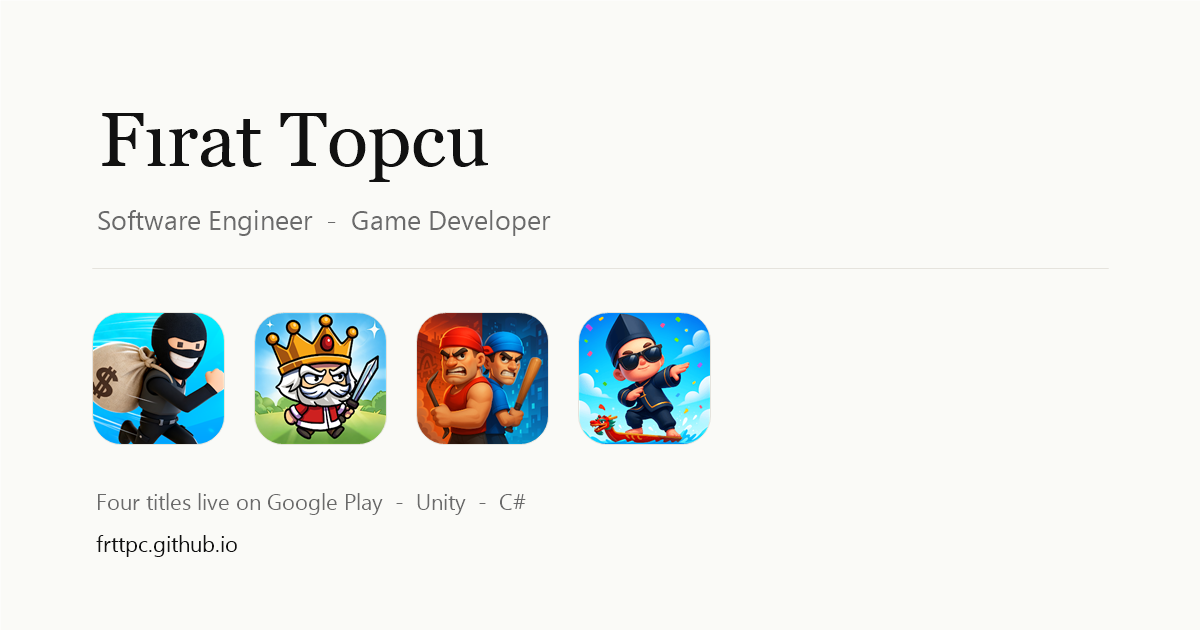
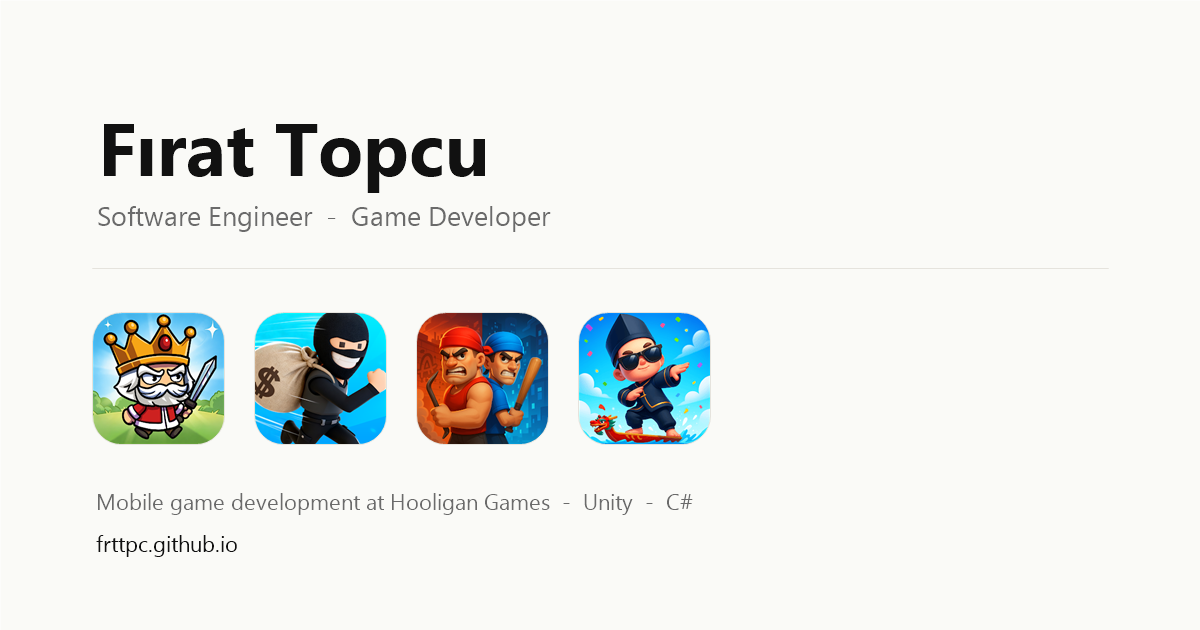
Reframe studio work and rework header type
- Lead with Double Strategy, the title currently in release with a
  publisher, and mark it In Release.
- Rename the section Studio Work. The other Hooligan titles were soft
  launched on Google Play for publisher testing rather than shipped, so
  relabel them Soft Launch instead of Released.
- Move Fort Royal in alongside the other studio work and leave the
  personal tab to solo builds only.
- Set the page header in bold Inter rather than the serif display face;
  the serif stays on section and project headings.
- Regenerate the share banner, app icons and meta description, all of
  which still claimed four live Google Play titles.

diff --git a/index.html b/index.html
@@ -4,7 +4,7 @@
     <meta charset="UTF-8">
     <meta name="viewport" content="width=device-width, initial-scale=1.0">
     <title>Fırat Topcu — Game Developer | Unity &amp; C#</title>
-    <meta name="description" content="Unity game developer with four titles live on Google Play. Gameplay systems, UI/UX and mobile performance in Unity and C#.">
+    <meta name="description" content="Unity game developer at Hooligan Games. Gameplay systems, UI/UX and mobile performance in Unity and C#.">
     <meta name="author" content="Fırat Topcu">
     <link rel="canonical" href="https://frttpc.github.io/">
 
@@ -15,15 +15,15 @@
     <meta property="og:site_name" content="Fırat Topcu">
     <meta property="og:url" content="https://frttpc.github.io/">
     <meta property="og:title" content="Fırat Topcu — Game Developer">
-    <meta property="og:description" content="Unity game developer with four titles live on Google Play. Gameplay systems, UI/UX and mobile performance in Unity and C#.">
+    <meta property="og:description" content="Unity game developer at Hooligan Games. Gameplay systems, UI/UX and mobile performance in Unity and C#.">
     <meta property="og:image" content="https://frttpc.github.io/images/og-image.png">
     <meta property="og:image:width" content="1200">
     <meta property="og:image:height" content="630">
-    <meta property="og:image:alt" content="Fırat Topcu, Software Engineer and Game Developer, with four shipped mobile game icons.">
+    <meta property="og:image:alt" content="Fırat Topcu, Software Engineer and Game Developer, with mobile game project icons.">
 
     <meta name="twitter:card" content="summary_large_image">
     <meta name="twitter:title" content="Fırat Topcu — Game Developer">
-    <meta name="twitter:description" content="Unity game developer with four titles live on Google Play. Gameplay systems, UI/UX and mobile performance in Unity and C#.">
+    <meta name="twitter:description" content="Unity game developer at Hooligan Games. Gameplay systems, UI/UX and mobile performance in Unity and C#.">
     <meta name="twitter:image" content="https://frttpc.github.io/images/og-image.png">
 
     <link rel="preconnect" href="https://fonts.googleapis.com">
@@ -104,11 +104,11 @@
         }
 
         h1 {
-            font-family: var(--serif);
-            font-weight: 400;
-            font-size: clamp(3rem, 8vw, 5rem);
-            line-height: 1.02;
-            letter-spacing: -0.02em;
+            font-family: var(--sans);
+            font-weight: 700;
+            font-size: clamp(2.7rem, 7vw, 4.2rem);
+            line-height: 1.05;
+            letter-spacing: -0.035em;
             margin-bottom: 14px;
         }
 
@@ -119,9 +119,9 @@
         }
 
         .role em {
-            font-family: var(--serif);
-            font-style: italic;
-            font-size: 1.2rem;
+            font-family: var(--sans);
+            font-style: normal;
+            font-weight: 600;
             color: var(--ink);
         }
 
@@ -342,6 +342,11 @@
         .status.released {
             background: #E6F2EA;
             color: #1F6B42;
+        }
+
+        .status.softlaunch {
+            background: #E8EEF6;
+            color: #33557F;
         }
 
         .status.prototype {
@@ -652,11 +657,11 @@
                 <img src="images/profile.jpg" alt="Fırat Topcu" class="avatar">
                 <div>
                     <h1>Fırat Topcu</h1>
-                    <p class="role">Software Engineer &mdash; <em>game developer</em></p>
+                    <p class="role">Software Engineer &mdash; <em>Game Developer</em></p>
                     <p class="intro">
                         I build mobile games in Unity and C#: gameplay systems, the UI that wraps
-                        them, and the live-ops plumbing underneath. Four titles currently on
-                        Google Play with Hooligan Games.
+                        them, and the live-ops plumbing underneath. Currently working towards
+                        release on <em>Double Strategy</em> at Hooligan Games.
                     </p>
                     <div class="header-links">
                         <a class="link-btn" href="https://github.com/frttpc" target="_blank" rel="noopener">GitHub</a>
@@ -672,8 +677,8 @@
 
     <nav class="nav">
         <div class="nav-inner">
-            <button class="nav-btn active" onclick="show(this,'shipped')">Shipped Games</button>
-            <button class="nav-btn" onclick="show(this,'prototypes')">Prototypes</button>
+            <button class="nav-btn active" onclick="show(this,'shipped')">Studio Work</button>
+            <button class="nav-btn" onclick="show(this,'prototypes')">Personal Projects</button>
             <button class="nav-btn" onclick="show(this,'templates')">Template Projects</button>
             <button class="nav-btn" onclick="show(this,'earlier')">Earlier Work</button>
             <button class="nav-btn" onclick="show(this,'about')">About</button>
@@ -684,18 +689,23 @@
 
         <section id="shipped" class="panel active">
             <div class="panel-head">
-                <span class="label">Commercial work</span>
-                <h2>Shipped Games</h2>
-                <p>Titles built at Hooligan Games and released on Google Play.</p>
+                <span class="label">Hooligan Games</span>
+                <h2>Studio Work</h2>
+                <p>
+                    Production work built with the team. <em>Double Strategy</em> is in release
+                    with a publisher. The rest were built to production standard and soft launched
+                    on Google Play for publisher testing &mdash; these are the most technically
+                    involved projects I have worked on.
+                </p>
             </div>
             <div class="shipped" id="shippedList"></div>
         </section>
 
         <section id="prototypes" class="panel">
             <div class="panel-head">
-                <span class="label">Personal &amp; team prototypes</span>
-                <h2>Prototypes</h2>
-                <p>Smaller builds where I explore a mechanic or a system end to end.</p>
+                <span class="label">Solo builds</span>
+                <h2>Personal Projects</h2>
+                <p>Smaller builds where I explore a mechanic or a system end to end on my own.</p>
             </div>
             <div class="proto-grid" id="protoList"></div>
         </section>
@@ -789,9 +799,19 @@
     <script>
         const shipped = [
             {
+                title: "Double Strategy",
+                studio: "Hooligan Games",
+                status: "In Release",
+                description: "Army-building strategy game with hero collection, stat allocation and customisable deployment against enemy fortresses. Currently in release with a publisher.",
+                role: "Core developer. Built core mechanics, dynamic UI systems and card upgrade functionality in Unity and C#.",
+                tech: ["Unity", "C#", "Mobile", "Game UI/UX"],
+                image: "images/double-strategy.png",
+                store: "https://play.google.com/store/apps/details?id=com.hooligan.doublestrategy"
+            },
+            {
                 title: "Heist Defense",
                 studio: "Hooligan Games",
-                status: "Released",
+                status: "Soft Launch",
                 description: "Card-based tower defense where police units defend against waves of thieves. Deploy and merge cards, upgrade your deck, and hold the line across escalating waves.",
                 role: "Core developer. Built card behaviors, deck management and the upgrade system, plus the interactive UI, menus and HUD.",
                 tech: ["Unity", "C#", "Mobile", "Game UI/UX"],
@@ -799,19 +819,9 @@
                 store: "https://play.google.com/store/apps/details?id=com.hooligan.savemoney"
             },
             {
-                title: "Double Strategy",
-                studio: "Hooligan Games",
-                status: "Released",
-                description: "Army-building strategy game with hero collection, stat allocation and customisable deployment against enemy fortresses.",
-                role: "Core developer. Built core mechanics, dynamic UI systems and card upgrade functionality in Unity and C#.",
-                tech: ["Unity", "C#", "Mobile", "Game UI/UX"],
-                image: "images/double-strategy.png",
-                store: "https://play.google.com/store/apps/details?id=com.hooligan.doublestrategy"
-            },
-            {
                 title: "Merge Brawlers",
                 studio: "Hooligan Games",
-                status: "Released",
+                status: "Soft Launch",
                 description: "Merge combat game. Tap cards to deploy brawlers, merge matching characters and build a gang army to overwhelm the opposition.",
                 role: "Contributing developer. Supported development alongside the core team.",
                 tech: ["Unity", "C#", "Mobile"],
@@ -821,26 +831,26 @@
             {
                 title: "Aura Farmer",
                 studio: "Hooligan Games",
-                status: "Released",
+                status: "Soft Launch",
                 description: "Endless runner built around the Indonesian boat racing trend, with fast-paced arcade progression.",
                 role: "Contributing developer. Supported development alongside the core team.",
                 tech: ["Unity", "C#", "Mobile"],
                 image: "images/aura-farmer.png",
                 store: "https://play.google.com/store/apps/details?id=com.hooligan.aurafarmer"
-            }
-        ];
-
-        const prototypes = [
+            },
             {
                 title: "Fort Royal",
                 studio: "Hooligan Games",
-                status: "Team Prototype",
+                status: "Prototype",
                 description: "Grid-based strategy prototype built with the team. Shelved when the studio moved on to a concept with stronger potential.",
                 role: "Built grid-based systems and mechanics. Implemented Firebase Remote Config, and integrated IAP, notifications and localization.",
                 tech: ["Unity", "C#", "Firebase Remote Config", "Unity IAP", "Localization", "Push Notifications"],
                 image: null,
-                links: {}
-            },
+                store: null
+            }
+        ];
+
+        const prototypes = [
             {
                 title: "Pingu vs Pengu",
                 studio: "Personal project",
@@ -921,14 +931,22 @@
             ? `<div class="tags">${tech.map(t => `<span class="tag">${t}</span>`).join('')}</div>`
             : '';
 
+        const STATUS_CLASS = {
+            'In Release': 'released',
+            'Soft Launch': 'softlaunch',
+            'Prototype': 'prototype'
+        };
+
         const statusHTML = (status) => status
-            ? `<span class="dot"></span><span class="status ${status === 'Released' ? 'released' : 'prototype'}">${status}</span>`
+            ? `<span class="dot"></span><span class="status ${STATUS_CLASS[status] || 'prototype'}">${status}</span>`
             : '';
 
         function renderShipped() {
             document.getElementById('shippedList').innerHTML = shipped.map(g => `
                 <article class="ship">
-                    <div class="ship-art"><img src="${g.image}" alt="${g.title} icon" loading="lazy"></div>
+                    ${g.image
+                        ? `<div class="ship-art"><img src="${g.image}" alt="${g.title} icon" loading="lazy"></div>`
+                        : `<div class="ship-art blank">${g.title.charAt(0)}</div>`}
                     <div>
                         <h3 class="ship-title">${g.title}</h3>
                         <div class="ship-meta">
@@ -943,7 +961,9 @@
                         ${tagsHTML(g.tech)}
                     </div>
                     <div class="ship-actions">
-                        <a class="link-btn solid" href="${g.store}" target="_blank" rel="noopener">Google Play</a>
+                        ${g.store
+                            ? `<a class="link-btn solid" href="${g.store}" target="_blank" rel="noopener">Google Play</a>`
+                            : ''}
                     </div>
                 </article>
             `).join('');
